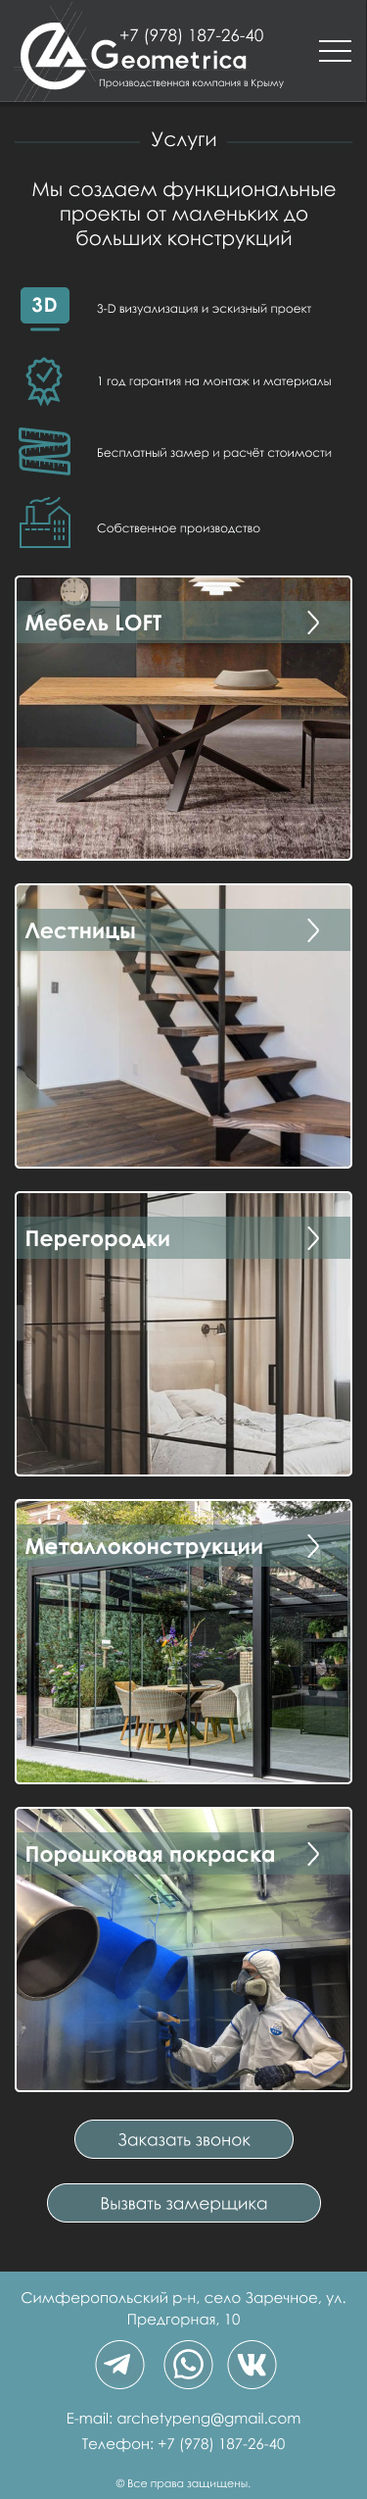
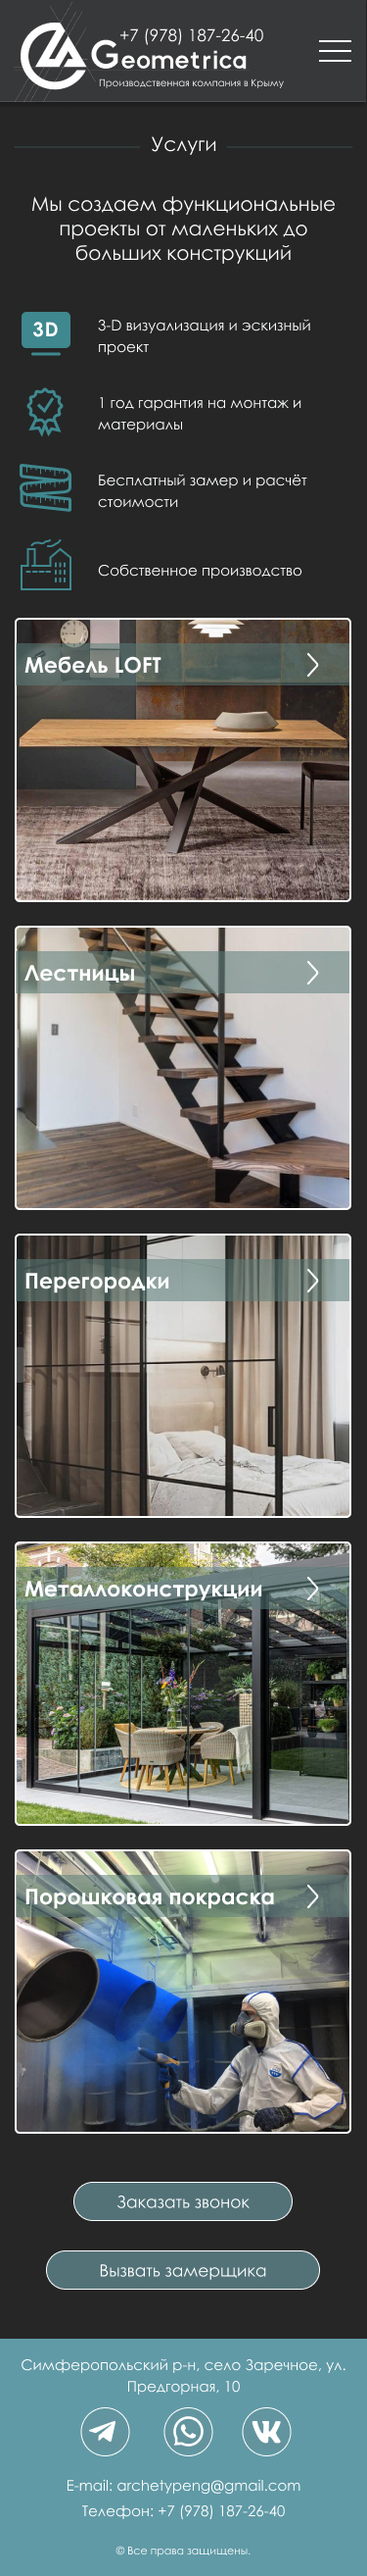
serv-page tab and mob done

diff --git a/services.html b/services.html
@@ -16,7 +16,7 @@
                 </div>
                 <div class="logo-wrap">
                     <a href="index.html" class="txt link">                                           
-                        <img src="logotips/logo.png" alt="logotip" class="logo">
+                        <img src="./images/logotips/logo.png" alt="logotip" class="logo">
                     </a>
                 </div>
                 <div class="nav__title-container">
@@ -36,110 +36,130 @@
                         <span class="bar"></span>
                     </div>
                 </div>
+            </div>
+            <div class="menu-wrap">
+                <ul class="menu">
+                    <li><a href="index.html" class="link link-main">Главная</a></li>                        
+                    <li><a href="services.html" class="link link-services">Услуги</a></li>            
+                    <li><a href="works.html" class="link link-works">Наши работы</a></li>
+                    <li><a href="contacts.html" class="link link-contacts">Контакты</a></li>
+                </ul>
             </div>        
         </nav>
     </header>
-    <main class="main">
-        <section class="section-main">
+    <main class="main sr-main">
+        <section class="section-main sr-section-main">
             <div class="main__wrapper">
                 <div class="head works-header page-main-head">
                     <span class="title-bar"></span>
-                        <h1 class="title txt section-list-title">Услуги</h1>
+                        <h1 class="title txt section-list-title ser-h1">Услуги</h1>
                     <span class="title-bar"></span>
                 </div>
-                <div class="main__description">
-                    <span class="description__content">
+                <div class="main__description sr-main__description">
+                    <span class="description__content sr-content">
                         Мы создаем функциональные проекты от маленьких до больших конструкций
                     </span>
                 </div>
             </div>
-            <div class="market-adv-wrapper">
-                <ul class="list market-adv-list">
-                    <li class="adv-item__conteiner">
-                        <div class="adv-sm__wrap"><img src="./logotips/3d-logo.svg" alt="3D Визуализация" class="adv-log"></div>
-                        <div class="adv-lg__wrap"><span class="txt av-text-md">3-D визуализация и эскизный проект</span></div>
+            <div class="market-adv-wrapper sr-market-adv-wrapper">
+                <ul class="list sr-adv-list market-adv-list">
+                    <li class="adv-item__conteiner sr-adv-item__conteiner">
+                        <div class="adv-sm__wrap sr-adv-sm__wrap"><img src="./images/logotips/3d-logo.svg" alt="3D Визуализация" class="adv-log"></div>
+                        <div class="adv-lg__wrap sr-adv-lg__wrap"><span class="txt av-text-md sr-av-text-md">3-D визуализация и эскизный проект</span></div>
                     </li>
-                    <li class="adv-item__conteiner">
-                        <div class="adv-sm__wrap"><img src="./logotips/grand-logo.svg" alt="3D Визуализация" class="adv-log"></div>
-                        <div class="adv-lg__wrap"><span class="txt av-text-md">1 год гарантии на монтаж и материалы</span></div>
+                    <li class="adv-item__conteiner sr-adv-item__conteiner">
+                        <div class="adv-sm__wrap"><img src="./images/logotips/grand-logo.svg" alt="3D Визуализация" class="adv-log"></div>
+                        <div class="adv-lg__wrap sr-adv-lg__wrap"><span class="txt av-text-md sr-av-text-md">1 год гарантии на монтаж и материалы</span></div>
                     </li>
-                    <li class="adv-item__conteiner">
-                        <div class="adv-sm__wrap"><img src="./logotips/ruler-logo.svg" alt="3D Визуализация" class="adv-log"></div>
-                        <div class="adv-lg__wrap"><span class="txt av-text-md">Бесплатный замер и расчет стоимости</span></div>
+                    <li class="adv-item__conteiner sr-adv-item__conteiner">
+                        <div class="adv-sm__wrap"><img src="./images/logotips/ruler-logo.svg" alt="3D Визуализация" class="adv-log"></div>
+                        <div class="adv-lg__wrap sr-adv-lg__wrap"><span class="txt av-text-md sr-av-text-md">Бесплатный замер и расчет стоимости</span></div>
                     </li>
-                    <li class="adv-item__conteiner">
-                        <div class="adv-sm__wrap"><img src="./logotips/factury-logo.svg" alt="3D Визуализация" class="adv-log"></div>
-                        <div class="adv-lg__wrap"><span class="txt av-text-md">Собственное производство</span></div>
+                    <li class="adv-item__conteiner sr-adv-item__conteiner">
+                        <div class="adv-sm__wrap"><img src="./images/logotips/factury-logo.svg" alt="3D Визуализация" class="adv-log"></div>
+                        <div class="adv-lg__wrap sr-adv-lg__wrap"><span class="txt av-text-md sr-av-text-md">Собственное производство</span></div>
                     </li>
                 </ul>
             </div>
             <div class="services-section">                
-                <div class="services-list-wrap">
+                <div class="services-list-wrap sr-services-list-wrap">
                     <ul class="list services-list">
-                        <li class="item service-item service-item-first">
+                        <li class="item service-item sr-item service-item-first">
                            <div class="title-wrap">
                             <a href="./mebel.html" class="txt link link-flex">
                                 <div class="service-sm-wrapper"><h3 class="title txt item-title">Мебель LOFT</h3></div>
-                                <div class="service-sm-wrapper"><img src="./logotips/link-vector.svg" alt="Переход" class="go-link"></div>                       
+                                <div class="service-sm-wrapper"><img src="./images/logotips/link-vector.svg" alt="Переход" class="go-link"></div>                       
                             </a>                            
                            </div>                        
                         </li>
-                        <li class="item service-item services-item-second">
+                        <li class="item service-item sr-item services-item-second">
                             <div class="title-wrap">
                                 <a href="./lestnicy.html" class="txt link link-flex">
                                     <div class="service-sm-wrapper"><h3 class="title txt item-title">Лестницы</h3></div>
-                                    <div class="service-sm-wrapper"><img src="./logotips/link-vector.svg" alt="Переход" class="go-link"></div>                                
+                                    <div class="service-sm-wrapper"><img src="./images/logotips/link-vector.svg" alt="Переход" class="go-link"></div>                                
                                 </a>
                             </div>                        
                          </li>
-                         <li class="item service-item service-item-third">
+                         <li class="item service-item sr-item service-item-third">
                             <div class="title-wrap">
                                 <a href="./peregorodki.html" class="txt link link-flex">
                                     <div class="service-sm-wrapper"><h3 class="title txt item-title">Перегородки</h3></div>
-                                    <div class="service-sm-wrapper"><img src="./logotips/link-vector.svg" alt="Переход" class="go-link"></div>
+                                    <div class="service-sm-wrapper"><img src="./images/logotips/link-vector.svg" alt="Переход" class="go-link"></div>
                                 </a>
                             </div>                       
                          </li>
-                         <li class="item service-item service-item-fourth">
+                         <li class="item service-item sr-item service-item-fourth">
                             <div class="title-wrap">
                                 <a href="./metalconruct.html" class="txt link link-flex">
                                     <div class="service-sm-wrapper"><h3 class="title txt item-title">Металлоконструкции</h3></div>
-                                    <div class="service-sm-wrapper"><img src="./logotips/link-vector.svg" alt="Переход" class="go-link"></div>
+                                    <div class="service-sm-wrapper"><img src="./images/logotips/link-vector.svg" alt="Переход" class="go-link"></div>
                                 </a>
                             </div>                       
                          </li>
-                         <li class="item service-item service-item-fiveth">
+                         <li class="item service-item sr-item service-item-fiveth">
                             <div class="title-wrap">
                                 <a href="./pokraska.html" class="txt link link-flex">
                                     <div class="service-sm-wrapper"><h3 class="title txt item-title">Порошковая покраска</h3></div>
-                                    <div class="service-sm-wrapper"><img src="./logotips/link-vector.svg" alt="Переход" class="go-link"></div>
+                                    <div class="service-sm-wrapper"><img src="./images/logotips/link-vector.svg" alt="Переход" class="go-link"></div>
                                 </a>
                             </div>                       
                          </li>
                     </ul>
                 </div>                
             </div>
-            <div class="head__forms-wrap forms-services">
+            <div class="head__forms-wrap sr-forms forms-services">
                 <form class="form form-service">
                     <button class="btn btn-first">Заказать звонок</button>
                 </form>
-                <form class="form form-service">
+                <form class="form sr-form form-service">
                     <button class="btn btn-second">Вызвать замерщика</button>
                 </form>
             </div>     
         </section>        
     </main>
-    <footer class="footer footer-services">
+    <footer class="footer">
         <div class="footer-wrapper">
             <div class="footer-header-wrap">
                 <span class="txt footer-txt maps-desc-text">Симферопольский р-н, село Заречное, ул. Предгорная, 10</span>
+                <a href="mailto:archetypeng@gmail.com" class="link txt email email-desktop mob-dn tab-dn">E-mail: archetypeng@gmail.com</a>
+            </div>
+            <div class="foot__menu-wrap mob-dn tab-dn">
+                <ul class="foot__menu-list">
+                    <li class="foot__menu-item"><a href="index.html" class="link txt foot__link">Главная</a></li>
+                    <li class="foot__menu-item"><a href="works.html" class="link txt foot__link">Наши Работы</a></li>
+                    <li class="foot__menu-item"><a href="services.html" class="link txt foot__link">Услуги</a></li>
+                    <li class="foot__menu-item"><a href="contacts.html" class="link txt foot__link">Контакты</a></li>
+                </ul>                
             </div>
             <div class="footer-socials-wrap">
                 <ul class="list social-list">
-                    <li class="social"><img src="./logotips/tele-logo.svg" alt="Логотип телеграмм" class="logo-sm"></li>
-                    <li class="social social-center"><img src="./logotips/whatsapp-logo.svg" alt="Логотип whatsapp" class="logo-sm"></li>
-                    <li class="social"><img src="./logotips/vk-logo.svg" alt="Логотип вконтакте" class="logo-sm"></li>
+                    <li class="social"><img src="./images/logotips/tele-logo.svg" alt="Логотип телеграмм" class="logo-sm"></li>
+                    <li class="social social-center"><img src="./images/logotips/whatsapp-logo.svg" alt="Логотип whatsapp" class="logo-sm"></li>
+                    <li class="social"><img src="./images/logotips/vk-logo.svg" alt="Логотип вконтакте" class="logo-sm"></li>
                 </ul>
+                <div class="foot__tel-wrap mob-dn tab-dn">
+                    <a href="tel:+79781872640" class="link txt tel foot__tel-desktop">Телефон: +7 (978) 187-26-40</a>
+                </div>
             </div>
             <div class="footer-contacts-list-wrap">                
                 <div class="contact-item-wrap">
@@ -150,13 +170,13 @@
                 </div>
             </div>
             <div class="contact-item-wrap footer-rights-wrap">
-                <span class="txt txt-sm">
+                <span class="txt txt-sm txt-rights">
                     &copy; Все права защищены
                 </span>
             </div>
         </div>
     </footer>
-    <script src="./js/menuAPI.js"></script>
-    <script src="./js/popupAPI.js"></script>
+   <script src="./js/menuAPI.js"></script>
+   <script src="./js/popupAPI.js"></script>
 </body>
 </html>

diff --git a/index.html b/index.html
@@ -16,7 +16,7 @@
                 </div>
                 <div class="logo-wrap">
                     <a href="index.html" class="txt link">                                           
-                        <img src="logotips/logo.png" alt="logotip" class="logo">
+                        <img src="./images/logotips/logo.png" alt="logotip" class="logo">
                     </a>
                 </div>
                 <div class="nav__title-container">
@@ -39,10 +39,10 @@
             </div>
             <div class="menu-wrap">
                 <ul class="menu">
-                    <li><a class="link-main">Главная</a></li>                        
-                    <li><a class="link-services">Услуги</a></li>            
-                    <li><a class="link-works">Наши работы</a></li>
-                    <li><a class="link-contacts">Контакты</a></li>
+                    <li><a href="index.html" class="link link-main">Главная</a></li>                        
+                    <li><a href="services.html" class="link link-services">Услуги</a></li>            
+                    <li><a href="works.html" class="link link-works">Наши работы</a></li>
+                    <li><a href="contacts.html" class="link link-contacts">Контакты</a></li>
                 </ul>
             </div>        
         </nav>
@@ -54,9 +54,9 @@
             </div>
             <div class="head__contacts">
                 <ul class="social-contacts-list">
-                    <li class="social-item"><a href="#" class="txt link"><img src="./logotips/tele-logo.svg" alt="telegram-contact" class="logo-md-first"></a></li>
-                    <li class="social-item"><a href="#" class="txt link"><img src="./logotips/whatsapp-logo.svg" alt="whatsapp-contact" class="logo-md"></a></li>
-                    <li class="social-item"><a href="#" class="txt link"><img src="./logotips/vk-logo.svg" alt="vkontakte-contact" class="logo-md"></a></li>
+                    <li class="social-item"><a href="#" class="txt link"><img src="./images/logotips/tele-logo.svg" alt="telegram-contact" class="logo-md-first"></a></li>
+                    <li class="social-item"><a href="#" class="txt link"><img src="./images/logotips/whatsapp-logo.svg" alt="whatsapp-contact" class="logo-md"></a></li>
+                    <li class="social-item"><a href="#" class="txt link"><img src="./images/logotips/vk-logo.svg" alt="vkontakte-contact" class="logo-md"></a></li>
                 </ul>
             </div>            
         </div>      
@@ -530,17 +530,17 @@
             </div>
             <div class="foot__menu-wrap mob-dn tab-dn">
                 <ul class="foot__menu-list">
-                    <li class="foot__menu-item"><a class="link txt foot__link">Главная</a></li>
-                    <li class="foot__menu-item"><a class="link txt foot__link">Наши Работы</a></li>
-                    <li class="foot__menu-item"><a class="link txt foot__link">Услуги</a></li>
-                    <li class="foot__menu-item"><a class="link txt foot__link">Контакты</a></li>
+                    <li class="foot__menu-item"><a href="index.html" class="link txt foot__link">Главная</a></li>
+                    <li class="foot__menu-item"><a href="works.html" class="link txt foot__link">Наши Работы</a></li>
+                    <li class="foot__menu-item"><a href="services.html" class="link txt foot__link">Услуги</a></li>
+                    <li class="foot__menu-item"><a href="contacts.html" class="link txt foot__link">Контакты</a></li>
                 </ul>                
             </div>
             <div class="footer-socials-wrap">
                 <ul class="list social-list">
-                    <li class="social"><img src="./logotips/tele-logo.svg" alt="Логотип телеграмм" class="logo-sm"></li>
-                    <li class="social social-center"><img src="./logotips/whatsapp-logo.svg" alt="Логотип whatsapp" class="logo-sm"></li>
-                    <li class="social"><img src="./logotips/vk-logo.svg" alt="Логотип вконтакте" class="logo-sm"></li>
+                    <li class="social"><img src="./images/logotips/tele-logo.svg" alt="Логотип телеграмм" class="logo-sm"></li>
+                    <li class="social social-center"><img src="./images/logotips/whatsapp-logo.svg" alt="Логотип whatsapp" class="logo-sm"></li>
+                    <li class="social"><img src="./images/logotips/vk-logo.svg" alt="Логотип вконтакте" class="logo-sm"></li>
                 </ul>
                 <div class="foot__tel-wrap mob-dn tab-dn">
                     <a href="tel:+79781872640" class="link txt tel foot__tel-desktop">Телефон: +7 (978) 187-26-40</a>

diff --git a/css/style.css b/css/style.css
@@ -934,6 +934,49 @@ body {
     width: 50px;
 }
 
+.sr-main {
+    padding-bottom: 0;
+}
+
+.sr-section-main {
+    padding: 5px 15px 0;
+}
+
+.ser-h1 {
+    font-size: 20px;
+}
+
+.sr-main__description {
+    margin-top: 36px;
+}
+
+.sr-market-adv-wrapper {
+    margin-top: 48px;
+}
+
+.sr-adv-item__conteiner {
+    align-items: start;
+    margin-top: 50px;
+}
+
+.sr-adv-sm__wrap {
+    margin-right: 25px;
+}
+
+.sr-av-text-md {
+    font-size: 15px;
+    line-height: 1.45;
+}
+
+.sr-item {
+    margin-top: 24px;
+}
+
+.sr-forms {
+    margin-top: 18px;
+}
+
+
 @media (max-width: 640px) {
     .work-image {
         object-fit: cover;
@@ -1404,6 +1447,61 @@ body {
 
     .tab-dn {
         display: none;
+    }
+
+    .sr-section-main {
+        margin-top: 38px;
+        padding: 0 27px;
+    }
+
+    .sr-main__description {
+        margin-top: 48px;
+        padding: 0 30px;
+    }
+
+    .sr-content {
+        font-size: 35px;
+    }
+
+    .sr-market-adv-wrapper {
+        margin-top: 9px;
+    }
+
+    .sr-av-text-md {
+        font-size: 20px;
+    }
+
+    .sr-adv-list {
+        display: flex;
+        flex-wrap: wrap;
+        margin-top: 18px;
+    }
+
+    .sr-adv-item__conteiner {
+        flex-basis: 50%;
+        margin-top: 40px;
+    }
+
+    .sr-adv-lg__wrap {
+        padding: 0 5px;
+    }
+
+    .sr-services-list-wrap {
+        margin-top: 36px;
+    }
+
+    .sr-item:nth-child(5) {
+        flex-grow: 0;
+        flex-basis: 48%;
+        margin: 0 auto;
+    }
+
+    .sr-forms {
+        margin-top: 8px;
+    }
+
+    .sr-form {
+        margin-top: 45px;
     }
 }
 
